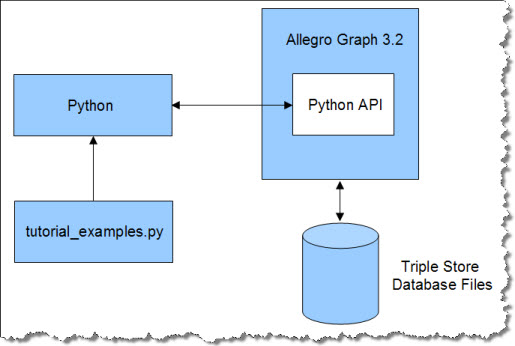
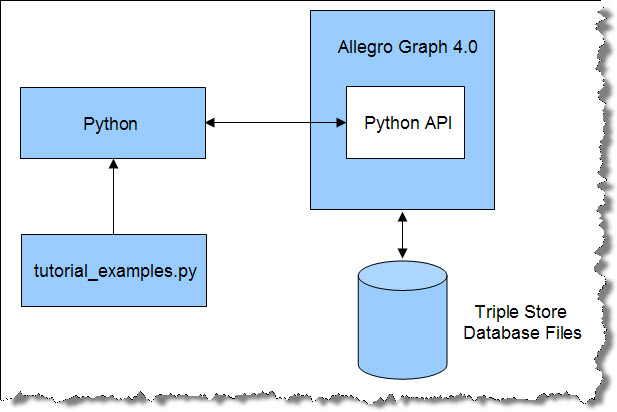
AG4 Python Tutorial documents and images.
Update to python-tutorial-40.html and one jpeg file.

Changed region(s): [[0.0, 0.0, 1.0, 1.0], [0.1243, 0.2601, 0.2485, 0.3468]]

diff --git a/tutorial/python-tutorial-40.html b/tutorial/python-tutorial-40.html
@@ -68,12 +68,12 @@ creating, querying and maintaining RDF data, and for managing the stored triples
 <p>&nbsp;</p>
 <h2 id="Overview">Overview&nbsp;&nbsp;&nbsp;<a class="returnlink" href="#Contents">Return to Top</a></h2>
 <p>The Python client tutorial rests on a simple architecture involving AllegroGraph, disk-based data files, Python, and a file of Python examples called tutorial_examples_40.py.</p>
-<table width="809" border="0">
+<table width="944" border="0">
   <tr>
-    <td width="281"><p>AllegroGraph 4.0 Server runs as a Windows service in this example. It contains the Python API, which is part of the AllegroGraph installation. </p>
+    <td width="309"><p>AllegroGraph 4.0 Server runs as a Windows service in this example. It contains the Python API, which is part of the AllegroGraph installation. </p>
     <p>Python communicates with AllegroGraph through HTTP port 8080 in this example. Python and AllegroGraph may be installed on the same computer, but in practice one server is shared by multiple clients. </p>
     <p>Load tutorial_examples_40.py into Python to view the tutorial examples. </p></td>
-    <td width="518"><img src="allegrographdiagram.jpg" width="515" height="346" align="right"></td>
+    <td width="625"><img src="allegrographdiagram.jpg" width="617" height="412"></td>
   </tr>
 </table>
 <p>Each lesson in <strong>tutorial_examples_40.py</strong> is encapsulated in a Python function, named testN(), where N ranges from 0 to 21 (or more). The function names are referenced in the title of each section to make it easier to compare the tutorial text and the living code of the examples file. </p>
@@ -1419,7 +1419,7 @@ Number of cliques: 2
 <h2 id="Dedicated Session">Dedicated Session (test22())</h2>
 <p>Most of the time, multiple AllegroGraph users pool triples in a common session. Their data may be segregated into multiple contexts (subgraphs) for convenience, but in fact any part of this data may be retrieved by any of the users.</p>
 <p>There are situations where a little more security is required. You may open a &quot;dedicated session&quot; and populate it with triples that the other users cannot view. These triples may be searched and manipulated in the usual ways, but do not become visible to other users until you &quot;commit&quot; them to the common session. </p>
-<p>In order to open a dedicated session, the user must have &quot;read,&quot; &quot;write,&quot; and &quot;eval&quot; session privileges with AllegroGraph Server. Therefore certain features that require this level of trust are required to use dedicated sessions. For instance, Prolog rules and Social Network Analysis functions cannot be run in the common session. You must open a dedicated session in order to use them. </p>
+<p>In order to open a dedicated session, the user must have &quot;session&quot; privileges with AllegroGraph Server. This is an elevated level of privilege. Therefore certain features that also require an elevated level of trust are required to use dedicated sessions. For instance, Prolog rules and Social Network Analysis functions cannot be run in the common session. You must open a dedicated session in order to use them. </p>
 <p>Session management makes use of a transaction model. Changes in your dedicated session remain private until you are ready to commit them to the common session. </p>
 <p>&quot;Commit&quot; means to make the triples in the dedicated session visible in the common session. At the time of the commit, triples in the common session are also made visible to queries in the dedicated session. The two sessions are &quot;synched up&quot; by the commit. </p>
 <p>&quot;Rollback&quot; means to discard the contents of the dedicated session. It also makes all common-session triples visible in the dedicated session. </p>
